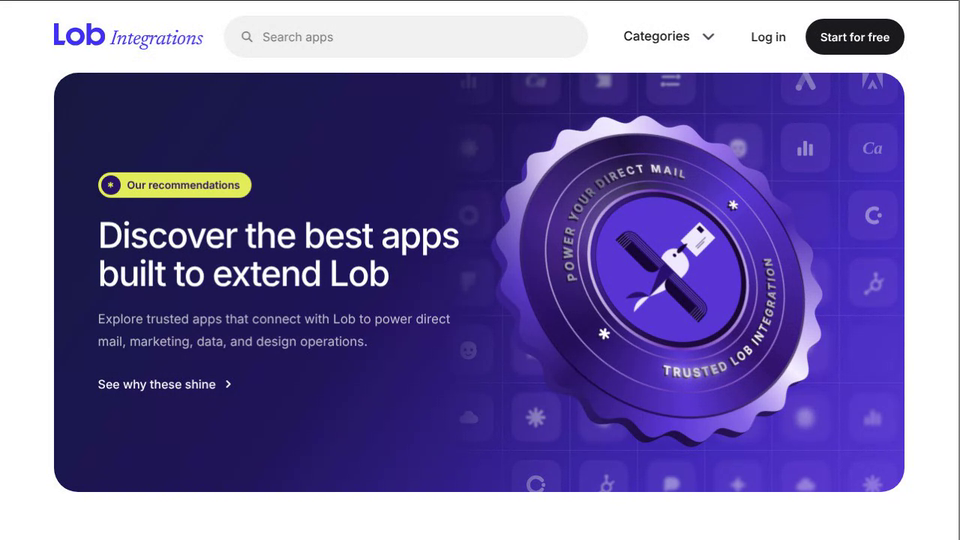
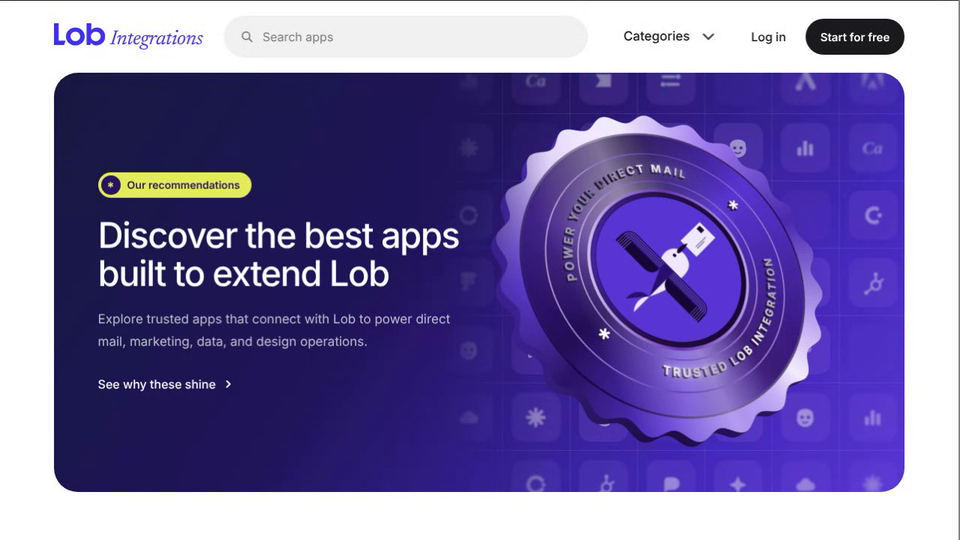
Lob Integrations Hero: roll back the blur change, keep one fewer top row of tiles on mobile
Claude-Session: https://claude.ai/code/session_01AHeBdw5Dmhovddhvfinq8X

diff --git a/lob-integrations-hero/index.html b/lob-integrations-hero/index.html
@@ -246,9 +246,7 @@ function build(){
   var html='', half=Math.min(w,h)/2, skip=window.innerWidth<=900?Math.max(0,Math.ceil((cell*.2-top)/pitch)):0;
   for(var r=0;r<rows;r++)for(var c=0;c<cols;c++){
     var dx=(c-(cols-1)/2)*pitch, dy=(r-(rows-1)/2)*pitch, d=Math.hypot(dx,dy*1.05)/half;
-    var o=Math.max(.45,1-Math.max(0,d-.45)*.5).toFixed(2);
-    /* blur sits behind the badge and fades out along the top-right and bottom-left, which stay sharp */
-    var bx=dx, by=dy-h*.035, along=(bx+by)*.7071, across=(bx-by)*.7071, e=Math.hypot(along/(half*1.45),across/(half*.85)), b=(Math.max(0,1.15-e)*7.5).toFixed(1);
+    var o=Math.max(.45,1-Math.max(0,d-.45)*.5).toFixed(2), b=(Math.max(0,d-.6)*2.6).toFixed(1);
     if(r<skip){html+='<div class="tile" style="visibility:hidden"></div>';continue}
     var ghost=((r*5+c*11+3)%7===0), B=BRANDS[(c*7+r*3)%BRANDS.length], K=CB[(c*7+r*3)%CB.length];
     html+='<div class="tile'+(ghost?' ghost':'')+'" style="--o:'+o+';--b:'+b+'px'+(ghost?'':';--bg:'+TILE+';--bgc:'+K.bg)+'"'+'>'+(ghost?'':'<svg class="m" viewBox="0 0 48 48">'+B.g+'</svg><svg class="c" viewBox="0 0 48 48">'+K.g+'</svg>')+'</div>';
